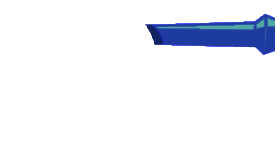
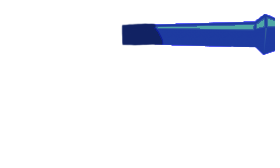
Barrel Angle limits set

Changed region(s): [[0.4286, 0.119, 0.5714, 0.2976]]

diff --git a/TinyTank/src/com/tiny/tank/Tank.java b/TinyTank/src/com/tiny/tank/Tank.java
@@ -229,46 +229,58 @@ public class Tank {
 		}
 		
 		//will execute if sitting essentially
-		if(!isShooting && !isFalling && !isMoving && isTurn){
+		if(!isShooting && !isFalling && !isMoving && isTurn)
+		{
 			//if the shoot key is pushed, initilize shot and start shooting
 			if(input.isKeyPressed(Input.KEY_SPACE)){
 				getShots().get(shotIndex).init(new Vector2f(hitbox.getCenterX(),hitbox.getCenterY()),new Vector2f(2*direction,5));
 				setShooting(true);
-			}
-			
-			// angle the barrel up	
-			if(input.isKeyDown(Input.KEY_W))
-			{
-				//needs to rotate at the base of the barrel..
-			
-				//BarrelImage.setCenterOfRotation(BarrelImage.getWidth()/2/cam.getScale(),BarrelImage.getHeight()/2/cam.getScale());
-				// if its facing left
-				if (direction == -1)
-				BarrelImage.rotate(1); //<- will need to change to Continuous
-										//   and smooth rotate as button is pressed
-										//   and will need limits..
-				else 
-				// facing right
-				BarrelImage.rotate(-1);
-				//BarrelImage.setCenterOfRotation(0,0);
-			}
-			
-			if(input.isMousePressed(Input.MOUSE_LEFT_BUTTON)){
-				BarrelImage.setCenterOfRotation(BarrelImage.getWidth()/2,BarrelImage.getHeight()/2);
-			}
-			// angle the barrel Down
-			if(input.isKeyDown(Input.KEY_S))
-			{
-				//BarrelImage.setCenterOfRotation(BarrelImage.getWidth()/2/cam.getScale(),BarrelImage.getHeight()/2/cam.getScale());
-				// facing left
-				if (direction == -1)
-				BarrelImage.rotate(-1);
-				else 
+				}
+
 				
-				// facing right
-				BarrelImage.rotate(1);
-				//BarrelImage.setCenterOfRotation(0,0);
-			}
+			
+			
+				BarrelImage.setCenterOfRotation(BarrelImage.getWidth()/2,BarrelImage.getHeight());
+
+				// angle the barrel up	
+				if(input.isKeyDown(Input.KEY_W))
+				{
+					System.out.println(BarrelImage.getRotation());		
+					// if its facing left
+					if (direction == -1)
+						{
+						if(BarrelImage.getRotation() < 90)
+						BarrelImage.rotate(1); 
+						}
+									
+					// facing right
+					if (direction == 1)
+						{
+						if(BarrelImage.getRotation() > -90)
+						BarrelImage.rotate(-1);
+						}
+						
+								
+				}
+			
+
+					// angle the barrel Down
+				if(input.isKeyDown(Input.KEY_S))
+				{
+					System.out.println(BarrelImage.getRotation());
+					// facing left
+					if (direction == -1)
+						{
+						if(BarrelImage.getRotation() > -30) // set lower limit
+							BarrelImage.rotate(-1);
+						}
+					// facing right
+					if (direction == 1)
+						{
+						if(BarrelImage.getRotation() < 30); // set lower limit
+							BarrelImage.rotate(1);
+						}
+				}
 			
 		}
 
